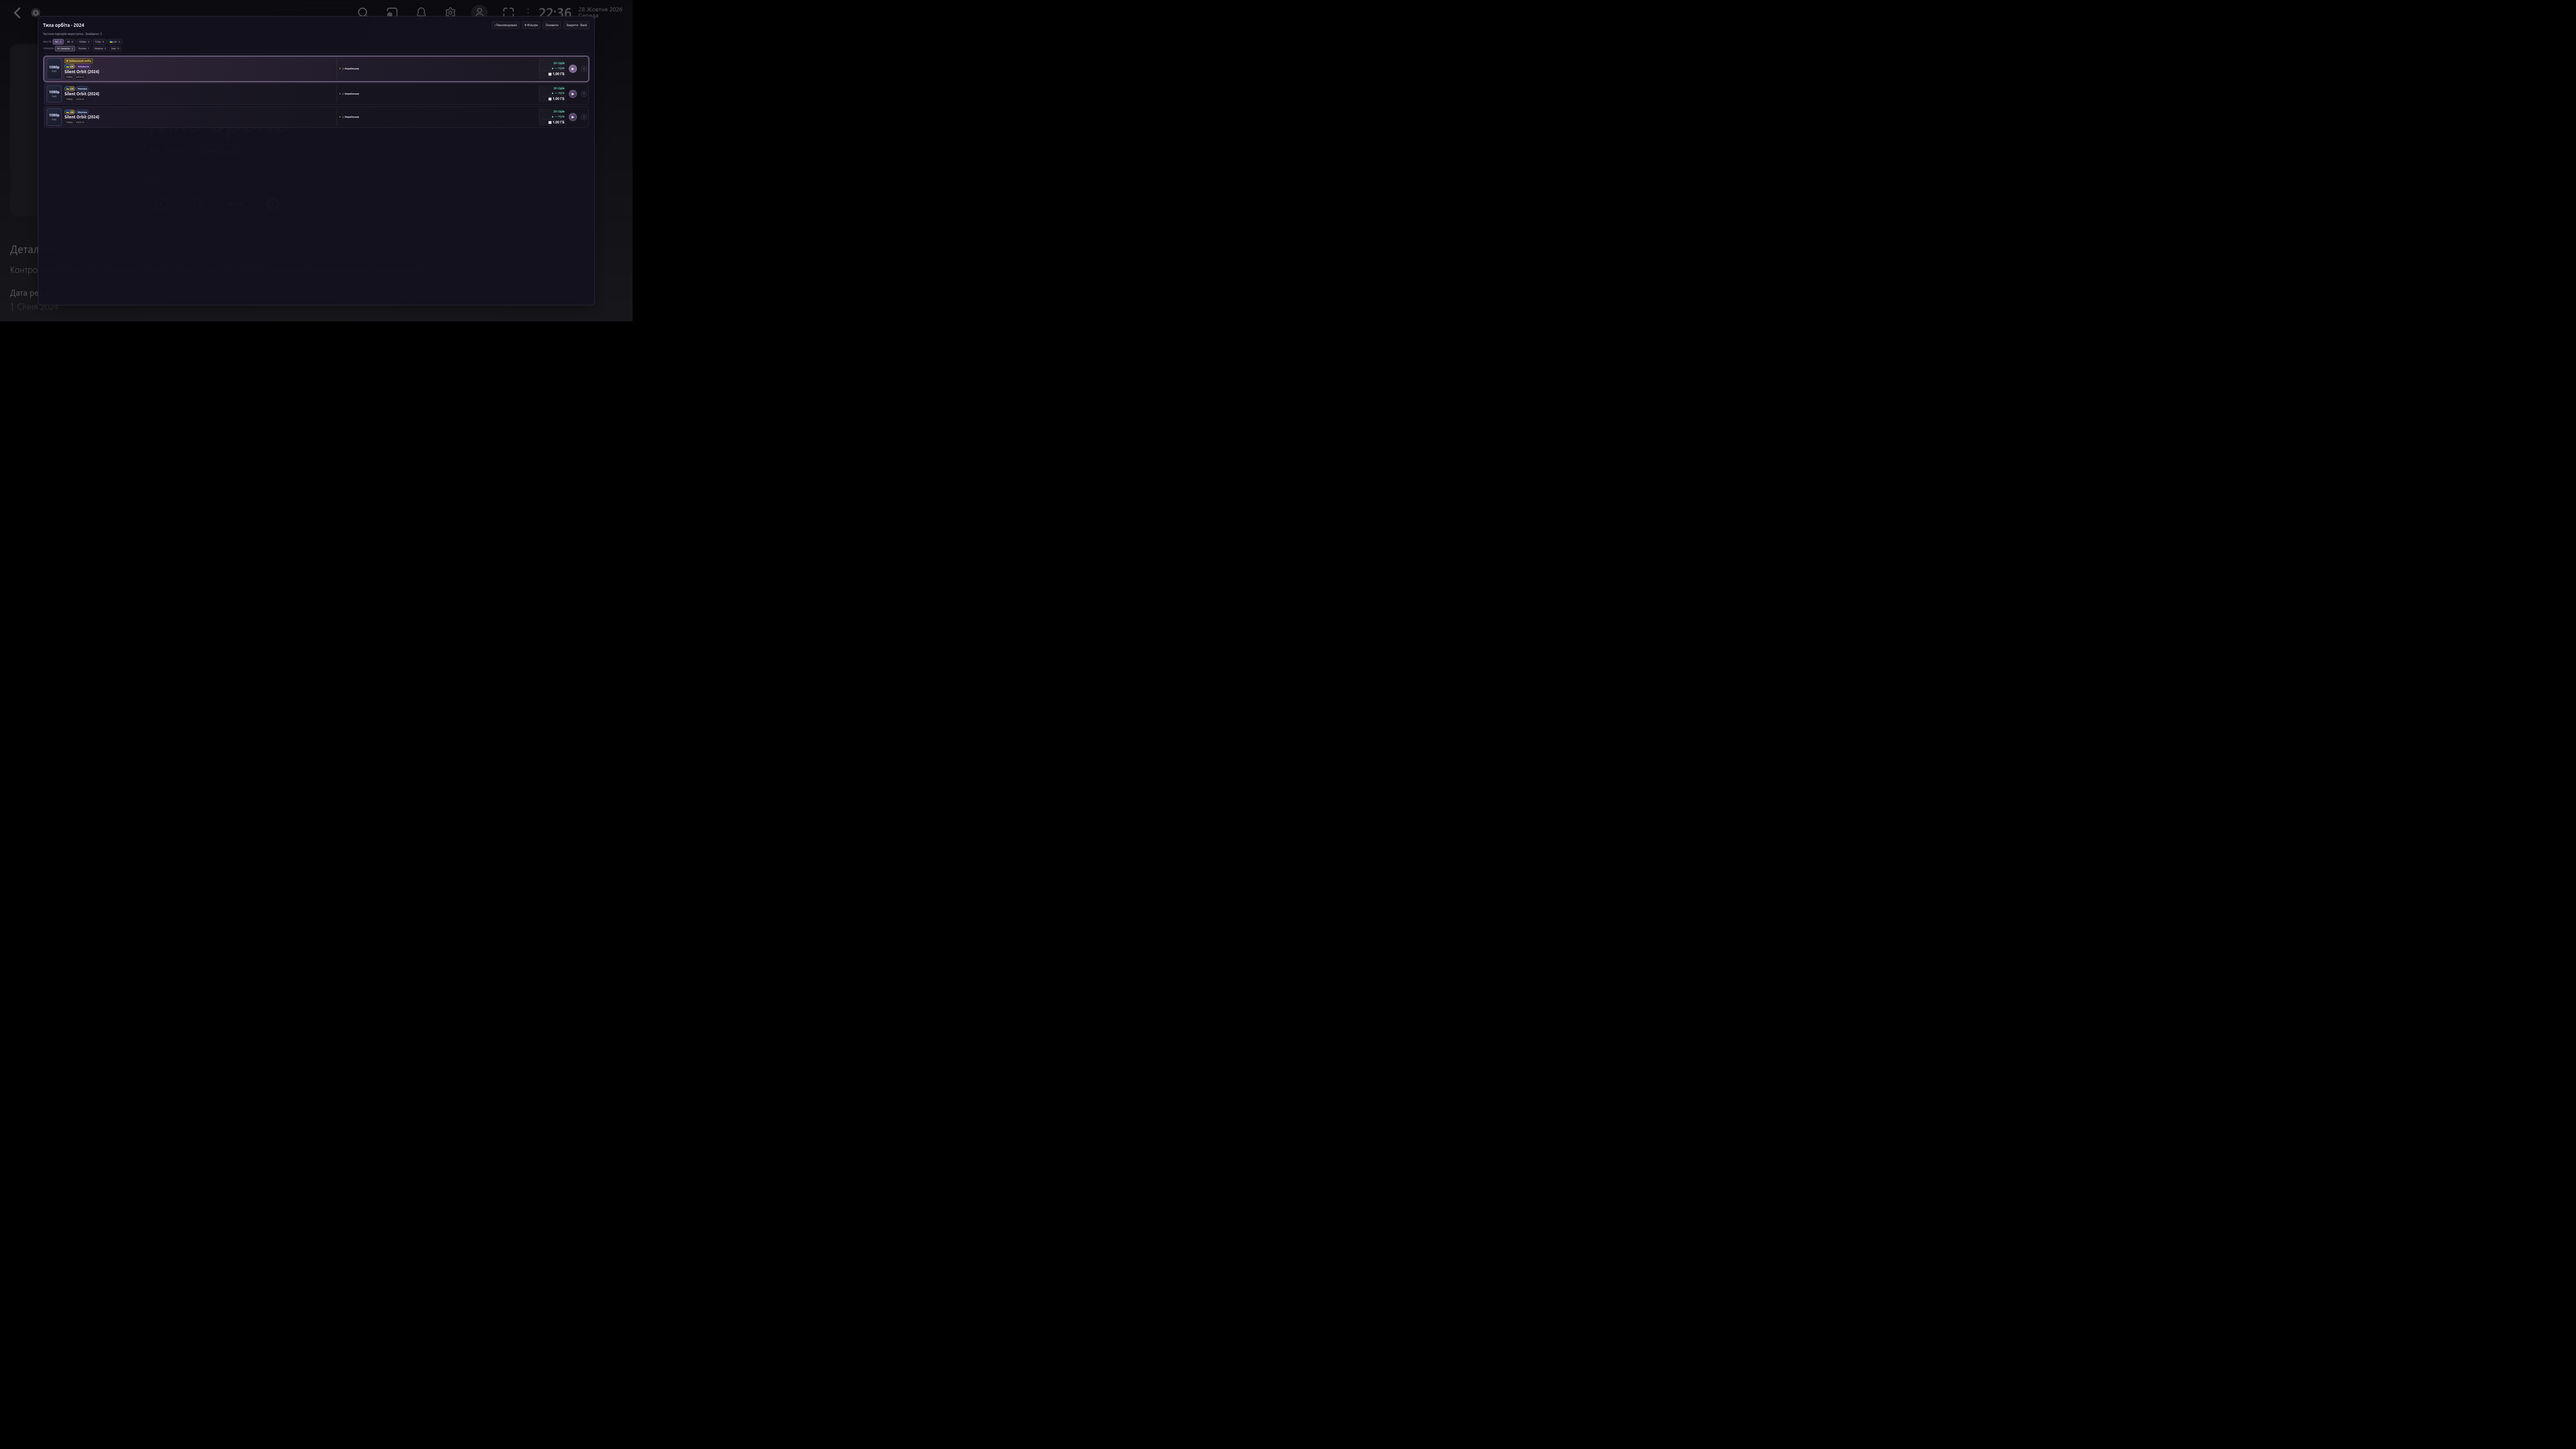
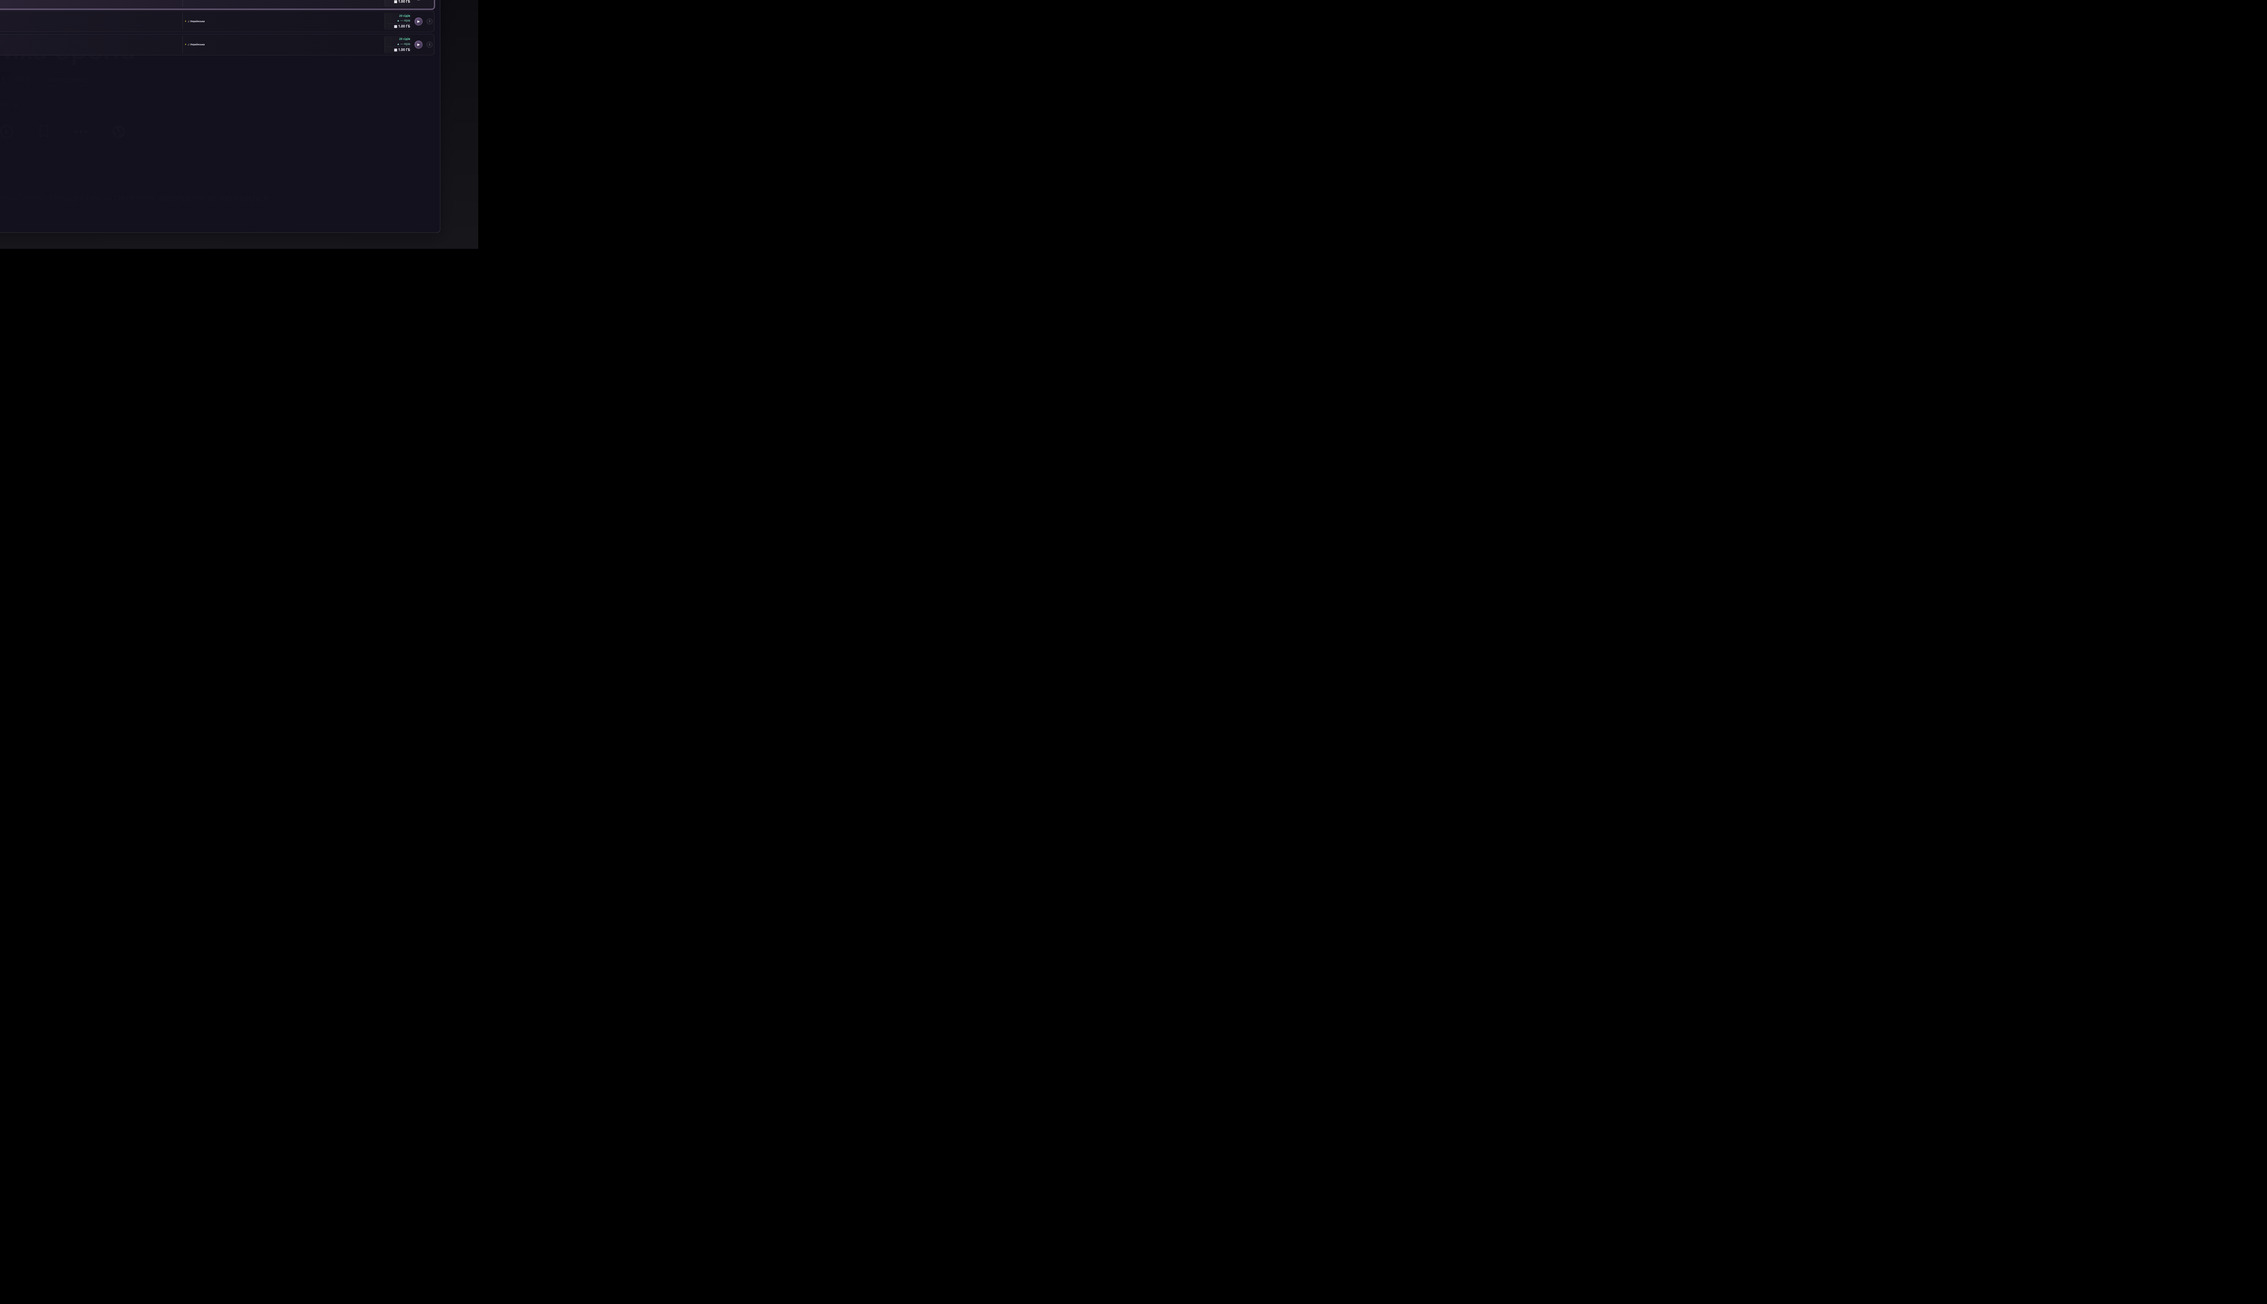
docs: synchronize final parser evidence and capture limitations

Changed region(s): [[0.0, 0.0, 0.2497, 0.249], [0.0, 0.0, 0.1249, 0.0934]]

diff --git a/audit/issue-120/README.md b/audit/issue-120/README.md
@@ -1,24 +1,26 @@
 # Issue #120 acceptance evidence
 
-Product/test source revision: `4e5f594e0135597aa396441b04c1c5aa00994474`, based on main `901eef3`. Subsequent evidence commits do not change the tested product sources. Draft PR #124; not merged or deployed.
+Product source revision: `56b1a3b9487676c51bb7ec4cc6624c893ecb96d4`, based on main `901eef3`. Subsequent evidence commits do not change the tested product sources. Draft PR #124; not merged or deployed.
 
-142 targeted tests PASS. Repository syntax/manifest/URL checks, canonical artifact freshness and diff checks PASS.
+143 targeted tests PASS. Repository syntax/manifest/URL checks, canonical artifact freshness and diff checks PASS.
 
 | Scenario | Cold requests | Peak concurrent | First result | Settled | Warm extra requests |
 | --- | ---: | ---: | ---: | ---: | ---: |
 | 3 endpoints, deterministic fake clock | 3 | 3 | 20 ms simulated | 20 ms simulated | 0 |
 | 6 endpoints, deterministic fake clock | 6 | 4 | 20 ms simulated | 20 ms simulated | 0 |
 | 17 endpoints, deterministic fake clock | 17 | 4 | 20 ms simulated | 20 ms simulated | 0 |
-| Actual Lampa standalone, HTTP fixtures | 6 | 4 | 279 ms | 2031 ms | not separately timed |
-| Actual Lampa Hybrid, HTTP fixtures | 6 | 4 | 277 ms | 2026 ms | not separately timed |
+| Actual Lampa standalone, HTTP fixtures | 6 | 4 | 283 ms | 2032 ms | not separately timed |
+| Actual Lampa Hybrid, HTTP fixtures | 6 | 4 | 279 ms | 2028 ms | not separately timed |
 
 Both browser scenarios PASS: fast results before slow first endpoint; one HTTP503; three responding endpoints share a BTIH; three final distinct torrents; native controller row focus retained; Info expansion/Back; native row OK → Files template/modal using fixture transport → Back returns to overlay; D-pad; final Back closes overlay. Each actual row is asserted to carry the requested fixture's exact raw release title. No live parser response or playback is claimed.
 
-- [Standalone report](browser-standalone.json), [screenshot](standalone.png)
-- [Hybrid report](browser-hybrid.json), [screenshot](hybrid.png)
+- [Standalone report](browser-standalone.json)
+- [Hybrid report](browser-hybrid.json)
 
 Reports contain only numbered synthetic sources, source hashes/byte sizes, safe state codes and counts. Exact changed JS is routed or evaluated in the existing authorized Lampa tab. Local source hashes identify the artifact, not an old published main file. Shadow Web Storage isolates configuration/account writes; routes/preloads are removed and the original URL restored in finally. Browser/profile/context remain running.
 
 An earlier Hybrid harness attempt clicked the previous activity before the fixture Details runtime attached and opened native torrents instead of the overlay. It is not acceptance evidence. The harness now waits for the exact active fixture ID and its attached `sh-has-streams` owner; final reports above are fresh successful runs after that correction.
 
 NOT TESTED: real endpoint credentials/health/CORS, live TorrServer, downloads/playback, physical Google TV. Browser matrix uses six endpoints; 3/17 endpoint counts and cache/migration/timeout cases are deterministic unit coverage. See [implementation and rollback](../../docs/issue-120-multi-parser.md).
+
+Screenshots are excluded from acceptance: the inherited browser metrics were 7680×4320 CSS pixels at DPR 0.25, and Playwright captured an incorrect clip. DOM/controller/request evidence remains valid; no visual-resolution or physical TV scaling claim is made. The harness now records geometry without invoking that screenshot path.

diff --git a/CODEX_PROGRESS.md b/CODEX_PROGRESS.md
@@ -1068,3 +1068,5 @@ Next publishupdatedPR50(mainmerge+marginfixonly),CI/merge;thenPR53retargettothat
 - Extended the #17 coordinator with a default-four bounded queue, per-request cancellable Jackett/Prowlarr transports, profile/config isolation, bounded LRU/cache/cooldowns and healthy-source alias limits. Existing catalog/credentials and exclusions remain authoritative; auto defaults without rewriting legacy roles, manual troubleshooting retained.
 - Torrent Cinema integration limited to existing refresh/cancellation boundaries; native ranking/metadata/player/Files untouched. Exact-source standalone/browser fixture evidence in `audit/issue-120/`; real providers/TorrServer and physical Google TV unverified. No live parser configuration changes, merge or deployment authorized for this task.
 - Final product/test source `4e5f594`: 142 focused tests PASS; repository checks/artifact freshness/diff checks PASS. Existing-CDP standalone and Hybrid fixtures both PASS against recorded exact source hashes: 6 requests, peak 4, first/final 279/2031 ms and 277/2026 ms respectively. Three verified unique torrents, independent 503, native Info/Files-template/Back/focus/D-pad confirmed. Earlier Hybrid harness activity-race failure corrected before acceptance; see evidence README. Original tab restored, profile/config writes shadowed. Draft PR #124 open; no merge/deploy.
+
+- Final product `56b1a3b` additionally coalesces later queued duplicates even when a response exceeds the cache budget. 143 targeted tests PASS. Fresh exact-product standalone/Hybrid HTTP-fixture reports PASS: first/final 283/2032 ms and 279/2028 ms; 6 requests, cap 4. Screenshot capture was excluded after inherited CSS viewport/DPR produced an incorrect clip; reports retain actual geometry. Functional assertions are unchanged by capture cleanup.
